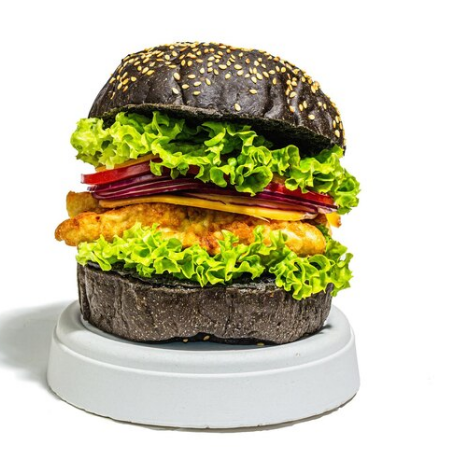
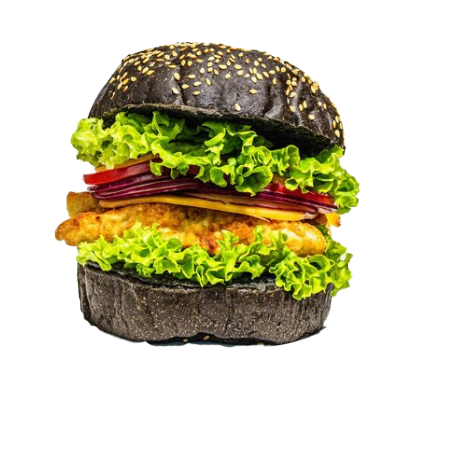
update images

diff --git a/index.html b/index.html
@@ -34,7 +34,7 @@
                     <p class="price">$5<small>.000</small></p>
                     <p class="only">Promo</p>
                 </div>
-                <img src="./img/burger.jpeg" alt="BURGER"/>
+                <img src="./img/burger.png" alt="BURGER"/>
             </div>
         </div>
     </section>
